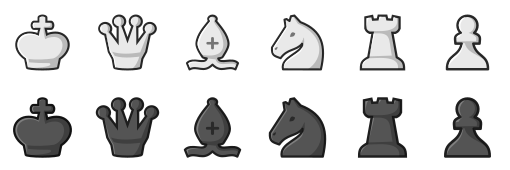
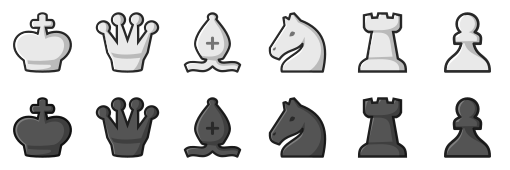
Highlight moves

diff --git a/src/Game/GameHandler.cpp b/src/Game/GameHandler.cpp
@@ -24,10 +24,12 @@ GameHandler::GameHandler(sf::RenderWindow& window, FontHolder& fonts)
       mSceneGraph(),
       mSceneLayers(),
       mPieces(64, nullptr),
+      mHighlights(64, nullptr),
       mDragging(nullptr),
       mBoardLeft(),
       mBoardTop(),
-      oldBox(-1) {
+      mOldBox(-1),
+      mLastMove(-1) {
 	mWindow.setView(mWindow.getDefaultView());
 
 	loadTextures();
@@ -71,11 +73,20 @@ void GameHandler::handleMouseMoved(int x, int y) {
 void GameHandler::checkDropPiece(int x, int y) {
 	if (mDragging == nullptr)
 		return;
-	mPieces[oldBox]->setOpacity(100);
+	mPieces[mOldBox]->setOpacity(100);
 	mSceneLayers[PopUp]->detachChild(*mDragging);
 	mDragging = nullptr;
 	const int newBox = getHoverBox(x, y);
-	movePiece(oldBox, newBox);
+
+	if (newBox > -1) {
+		if (mLastMove > -1) highlightMove(mLastMove, false);
+		highlightMove(newBox << 6 | mOldBox, true);
+	}
+	else {
+		highlightBox(mOldBox, Normal);
+		if (mLastMove > -1) highlightMove(mLastMove, true);
+	}
+	movePiece(mOldBox, newBox);
 }
 
 void GameHandler::checkPickUpPiece(int x, int y) {
@@ -85,17 +96,45 @@ void GameHandler::checkPickUpPiece(int x, int y) {
 	if (hovering == nullptr)
 		return;
 
+	// dim old position and highlight old box
+	mOldBox = getHoverBox(x, y);
 	hovering->setOpacity(50);
+	highlightBox(mOldBox, Light);
+
+	// create a fake piece that following player cursor
 	mDragging = hovering->clone();
-	mSceneLayers[PopUp]->attachChild(SceneNode::Ptr(mDragging));
-	oldBox = getHoverBox(x, y);
 	mDragging->snap(x, y);
+	mSceneLayers[PopUp]->attachChild(SceneNode::Ptr(mDragging));
+}
+
+void GameHandler::highlightBox(int box, GameHandler::HighlightRate rate) {
+	if (mHighlights[box] != nullptr) {
+		mSceneLayers[Background]->detachChild(*mHighlights[box]);
+		mHighlights[box] = nullptr;
+	}
+	if (rate > Normal) {
+		mHighlights[box] = new RectNode(Piece::SIZE, Piece::SIZE, sf::Color::Yellow);
+		mHighlights[box]->setOpacity(rate == Light ? 35 : 70);
+		setPositionToBox(mHighlights[box], box);
+		mSceneLayers[Background]->attachChild(SceneNode::Ptr(mHighlights[box]));
+	}
+}
+
+void GameHandler::highlightMove(int move, bool flag) {
+	int oldBox = move & 0x3f, newBox = move >> 6;
+	if (flag) {
+		highlightBox(newBox, Heavy);
+		highlightBox(oldBox, Light);
+	} else {
+		highlightBox(newBox, Normal);
+		highlightBox(oldBox, Normal);
+	}
 }
 
 void GameHandler::loadTextures() {
 	mTextures.load(Textures::Board, Constants::dataPrefix + "resources/images/boards/default.png");
 	mTextures.load(Textures::PiecesSet,
-	               Constants::dataPrefix + "resources/images/pieces/alpha.png");
+	               Constants::dataPrefix + "resources/images/pieces/default.png");
 }
 
 void GameHandler::buildScene() {
@@ -164,18 +203,16 @@ void GameHandler::loadBoardFromFEN(const std::string& fen) {
 }
 
 void GameHandler::addPiece(int type, int box) {
-	std::unique_ptr<Piece> piece(new Piece(mTextures.get(Textures::PiecesSet), type));
-	piece->setPosition(float(mBoardLeft + (box % 8) * Piece::SIZE),
-	                   float(mBoardTop + (box >> 3) * Piece::SIZE));
-	mPieces[box] = piece.get();
-	mSceneLayers[Pieces]->attachChild(std::move(piece));
+	mPieces[box] = new Piece(mTextures.get(Textures::PiecesSet), type);
+	setPositionToBox(mPieces[box], box);
+	mSceneLayers[Pieces]->attachChild(SceneNode::Ptr(mPieces[box]));
 }
 
 void GameHandler::movePiece(int oldBox, int newBox) {
-	std::cout << oldBox << ' ' << newBox << '\n';
+	std::cout << "move " << oldBox << ' ' << newBox << '\n';
 	assert(oldBox >= 0 && oldBox < 64);
 
-	// oldBox must be valid
+	// mOldBox must be valid
 	assert(mPieces[oldBox] != nullptr);
 
 	// if newBox not valid then move to old position
@@ -190,13 +227,19 @@ void GameHandler::movePiece(int oldBox, int newBox) {
 		mPieces[newBox] = mPieces[oldBox];
 
 		mPieces[oldBox] = nullptr;
+		mLastMove = (newBox << 6) | oldBox;
 		oldBox = -1;
 	}
-	mPieces[newBox]->setPosition(mBoardLeft + (newBox % 8) * Piece::SIZE,
-	                             mBoardTop + (newBox >> 3) * Piece::SIZE);
+	setPositionToBox(mPieces[newBox], newBox);
+}
+
+void GameHandler::setPositionToBox(SceneNode* node, int box) const {
+	node->setPosition((float)mBoardLeft + float((box & 7) * Piece::SIZE),
+	                  (float)mBoardTop + float((box >> 3) * Piece::SIZE));
 }
 
 void GameHandler::capturePiece(int box) {
+	std::cout << "capture " << box << '\n';
 	mSceneLayers[Pieces]->detachChild(*mPieces[box]);
 	mPieces[box] = nullptr;
 }

diff --git a/src/Game/GameHandler.hpp b/src/Game/GameHandler.hpp
@@ -10,6 +10,8 @@
 #include "Template/ResourceIdentifiers.hpp"
 #include "Template/SceneNode.hpp"
 #include "Template/SpriteNode.hpp"
+#include "Template/RectNode.hpp"
+
 
 #include <SFML/Graphics/Texture.hpp>
 #include <SFML/Graphics/View.hpp>
@@ -20,12 +22,13 @@
 namespace sf {
 class RenderWindow;
 class Event;
-}
+}  // namespace sf
 
 class GameHandler : public sf::NonCopyable {
    public:
 	const static std::string START_FEN;
 	const static int BOARD_SIZE;
+
    public:
 	explicit GameHandler(sf::RenderWindow& window, FontHolder& fonts);
 
@@ -39,6 +42,15 @@ class GameHandler : public sf::NonCopyable {
 	void buildScene();
 
    private:
+	enum Layer { Background, Pieces, PopUp, LayerCount };
+
+	enum HighlightRate {
+		Normal,
+		Light,
+		Heavy,
+	};
+
+   private:
 	Piece* checkHoverPiece(int x, int y) const;
 	int getHoverBox(int x, int y) const;
 
@@ -47,18 +59,16 @@ class GameHandler : public sf::NonCopyable {
 
 	void addPiece(int type, int box);
 	void movePiece(int oldBox, int newBox);
+	void capturePiece(int box);
 
 	void checkDropPiece(int x, int y);
 	void checkPickUpPiece(int x, int y);
 	void handleMouseMoved(int x, int y);
 
-   private:
-	enum Layer {
-		Background,
-		Pieces,
-		PopUp,
-		LayerCount
-	};
+	void highlightBox(int box, HighlightRate rate);
+	void highlightMove(int move, bool flag);
+
+	void setPositionToBox(SceneNode* node, int box) const;
 
    private:
 	sf::RenderWindow& mWindow;
@@ -68,12 +78,13 @@ class GameHandler : public sf::NonCopyable {
 	SceneNode mSceneGraph;
 	std::array<SceneNode*, LayerCount> mSceneLayers;
 	std::vector<Piece*> mPieces;
+	std::vector<RectNode*> mHighlights;
 
 	Piece* mDragging;
-	int oldBox;
+	int mOldBox;
+	int mLastMove; // (newBox << 6) | oldBox;
 
 	int mBoardLeft, mBoardTop;
-	void capturePiece(int box);
 };
 
 #endif  //CHESS_GAMEHANDLER_HPP

diff --git a/src/Template/RectNode.cpp b/src/Template/RectNode.cpp
@@ -1,0 +1,22 @@
+//
+// Created by MINH NHUT on 10/24/2023.
+//
+
+#include "RectNode.hpp"
+
+#include <SFML/Graphics/RenderTarget.hpp>
+
+RectNode::RectNode(int width, int height, const sf::Color& color)
+    : mRect(sf::Vector2f((float)width, (float)height)) {
+	mRect.setFillColor(color);
+}
+
+void RectNode::setOpacity(int rate) {
+	sf::Color color = mRect.getFillColor();
+	color.a = 255 * rate / 100;
+	mRect.setFillColor(color);
+}
+
+void RectNode::drawCurrent(sf::RenderTarget& target, sf::RenderStates states) const {
+	target.draw(mRect, states);
+}

diff --git a/src/Template/RectNode.hpp b/src/Template/RectNode.hpp
@@ -1,0 +1,26 @@
+//
+// Created by MINH NHUT on 10/24/2023.
+//
+
+#ifndef CHESS_RECTNODE_HPP
+#define CHESS_RECTNODE_HPP
+
+#include "SceneNode.hpp"
+
+#include <SFML/Graphics/RectangleShape.hpp>
+
+class RectNode : public SceneNode {
+   public:
+	explicit RectNode(int width, int height, const sf::Color &color);
+
+	// rate from 0 to 100
+	void setOpacity(int rate);
+
+   private:
+	void drawCurrent(sf::RenderTarget& target, sf::RenderStates states) const override;
+
+   protected:
+	sf::RectangleShape mRect;
+};
+
+#endif  //CHESS_RECTNODE_HPP

diff --git a/src/Template/Application.cpp b/src/Template/Application.cpp
@@ -15,7 +15,7 @@ const sf::Time Application::TimePerFrame = sf::seconds(1.f / 60.f);
 
 Application::Application()
     : mWindow(sf::VideoMode(1600, 900), "Chess", sf::Style::Close,
-              sf::ContextSettings(0, 0, 4)),
+              sf::ContextSettings(0, 0, 8)),
 #ifdef SFML_DEBUG
       mStatisticsText(),
       mStatisticsUpdateTime(),
